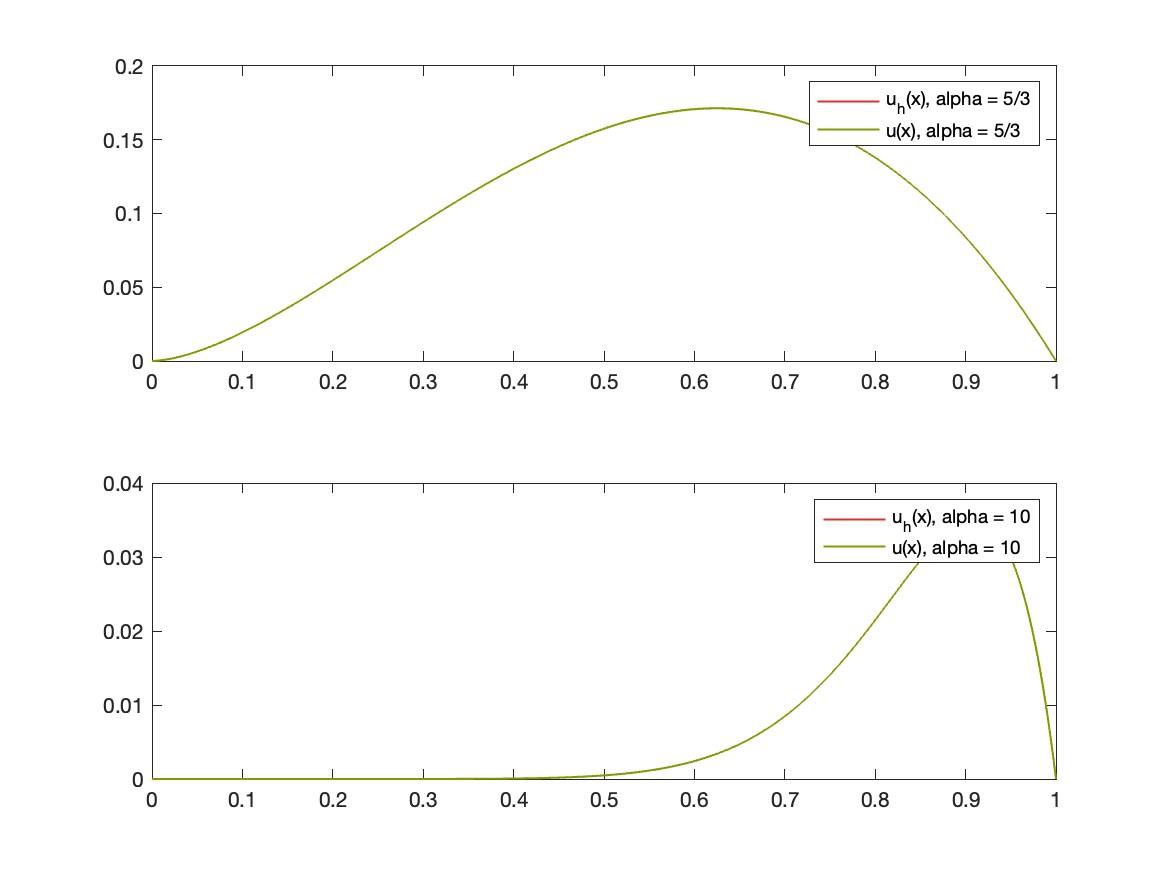
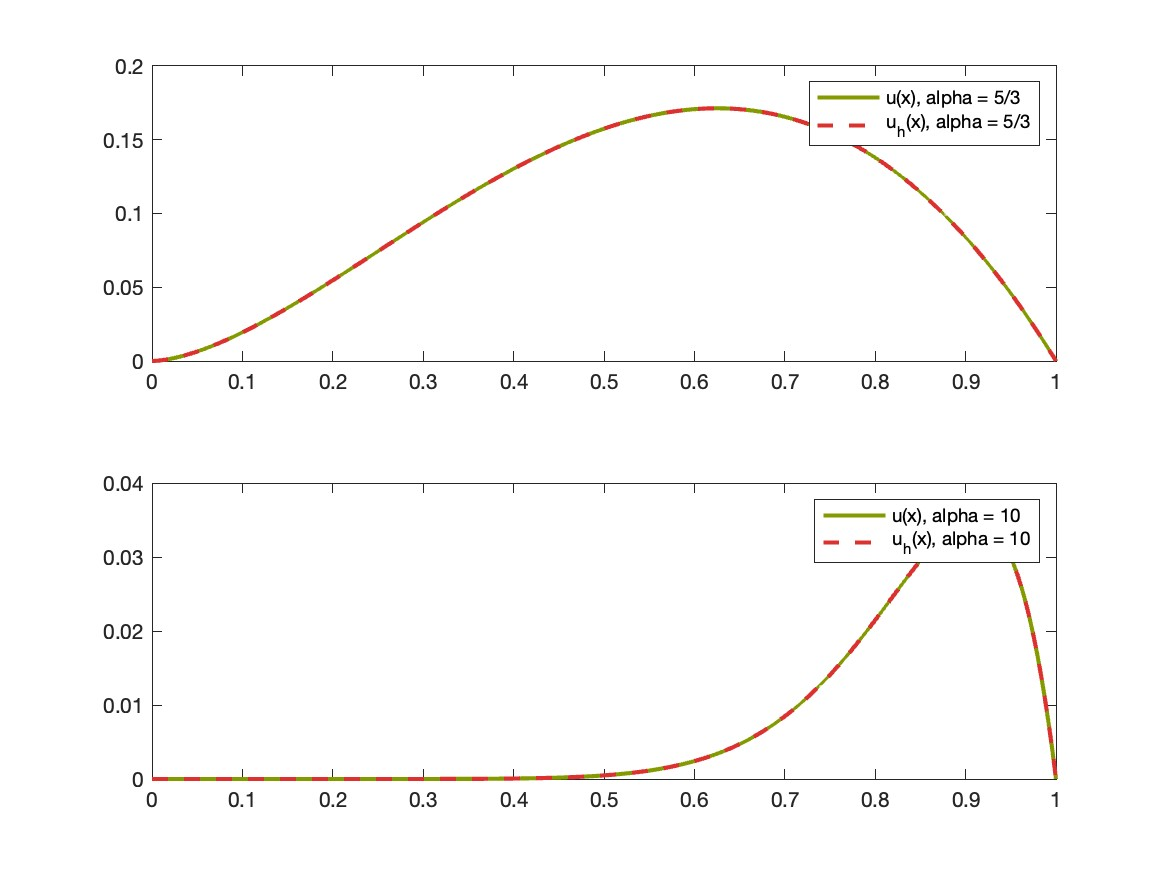
Updated errorTrend and graphical comparison

diff --git a/tests/errorTrend.m b/tests/errorTrend.m
@@ -14,7 +14,7 @@ function errorTrend
 	sizes = zeros(2, steps);
 	errors = zeros(2, steps);
 
-	%% Alpha = 5/3.
+	%% \alpha = 5/3.
 	up = @(x) up_a(5/3, x);
 	f = @(x) f_a(5/3, x);
 	
@@ -22,7 +22,7 @@ function errorTrend
 	uMesh = builder(5);
 	meshSizes = diff(uMesh.nodes);
 
-	fprintf('Errors evaluation, alpha = 5/3.\nSimple.\n')
+	fprintf('Errors evaluation, \alpha = 5/3.\nSimple.\n')
 
 	j = 1;
 	[uh, ~, ~] = solver(uMesh, f);
@@ -45,7 +45,7 @@ function errorTrend
 			length(uMesh.elements), errors(1, j));
 	end
 
-	%% Alpha = 10.
+	%% \alpha = 10.
 	up = @(x) up_a(10, x);
 	f = @(x) f_a(10, x);
 	
@@ -53,7 +53,7 @@ function errorTrend
 	uMesh = builder(5);
 	meshSizes = diff(uMesh.nodes);
 
-	fprintf('\n\nErrors evaluation, alpha = 10.\nSimple.\n')
+	fprintf('\n\nErrors evaluation, \alpha = 10.\nSimple.\n')
 	
 	j = 1;
 	[uh, ~, ~] = solver(uMesh, f);
@@ -80,26 +80,22 @@ function errorTrend
 	
 	green = [133, 153, 0] / 255;
 	red = [220, 50, 47] / 255;
+	blue = [38	139	210] / 255;
 
 	loglog(sizes(1, :), errors(1, :), ...
-		DisplayName='alpha = 5/3', LineWidth=2, ...
+		DisplayName='\alpha = 5/3', LineWidth=2, ...
 		Color=red);
 
 	hold on;
 
 	loglog(sizes(2, :), errors(2, :), ...
-		DisplayName='alpha = 10', LineWidth=2, ...
+		DisplayName='\alpha = 10', LineWidth=2, ...
 		Color=green);
 	
 	xlabel("Mesh Size (h)");
 	ylabel("Error")
 
-	hold off;
-	legend;
-
-	saveas(gcf, "../gallery/errorTrend", "jpeg")
-
-	%% Interpolation
+	% Interpolation
 
 	coeffs = zeros(2, 2);
 	coeffs(1, :) = polyfit(log(sizes(1, :)), ...
@@ -107,12 +103,24 @@ function errorTrend
 	coeffs(2, :) = polyfit(log(sizes(2, :)), ...
 		log(errors(2, :)), 1);
 	
+	loglog(sizes(1, :), exp(coeffs(1, 2)) * (sizes(1, :) .^ ...
+		coeffs(1, 1)), LineWidth=2, Color=blue, ...
+		LineStyle=":", DisplayName="\alpha = 5/3 Interpolant.");
+	loglog(sizes(2, :), exp(coeffs(2, 2)) * (sizes(2, :) .^ ...
+		coeffs(2, 1)), LineWidth=2, Color=blue, ...
+		LineStyle=":", DisplayName="\alpha = 10 Interpolant.");
+	
 	% Prints coefficients.
 	fprintf("\n\nInterpolation coefficients.")
-	fprintf("\n\nalpha = 5/3, y = %fx + (%f)", ...
+	fprintf("\n\nalpha = 5/3 Interpolant: y = %fx + (%f)", ...
 		coeffs(1, 1), coeffs(1, 2));
-	fprintf("\nalpha = 10, y = %fx + (%f)\n", ...
+	fprintf("\nalpha = 10 Interpolant: y = %fx + (%f)\n", ...
 		coeffs(2, 1), coeffs(2, 2));
+
+	hold off;
+	legend;
+
+	saveas(gcf, "../gallery/errorTrend", "jpeg")
 end
 
 function err = errorEstimate(mesh, up, uh)

diff --git a/report/sections/fem.tex b/report/sections/fem.tex
@@ -10,6 +10,7 @@ Let $x_j$ a node for $T_h$, we define $\phi_j$ as it follows:
 Moreover, the functions $\phi_j(x)$ are continuos and piecewise linear, which satisfies $\phi_j(x) \in V_h$ $\forall j \in \{1, \dots, N_{V_h}\}$.
 
 \subsection{Finite Element Discretization}
+
 As seen on \nameref{fem_definition}, the finite element discretization consists in finding $u_h \in V_h$ such that:
 \begin{gather}
 	a(u_h, v_h) = (f, v_h)_{0, \Omega} \quad \forall v_h \in V_h.
@@ -66,6 +67,18 @@ we have:
 
 \noindent Moreover a polynomial interpolation returns the following results which confirm the expected error trend on uniform meshes, as they are decreasing slightly slower than linearly.
 \begin{verbatim}
-alpha = 5/3, y = 0.988762x + (0.006448)
-alpha = 10, y = 0.964138x + (0.389059)
+Interpolation coefficients.
+
+alpha = 5/3 Interpolant: y = 0.988762x + (0.006448)
+alpha = 10 Interpolant: y = 0.964138x + (0.389059)
 \end{verbatim}
+
+\subsection{Qualitative Comparison Between Analytical and Numerical Solution}
+
+Here it follows a simple and qualitative comparison between the analytical and numerical solution.
+
+\begin{figure}[!ht]
+	\centering
+	\includegraphics[width=15cm]{graphical.jpg}
+	\caption{Qualitative comparison.}
+\end{figure}

diff --git a/tests/graphical.m b/tests/graphical.m
@@ -20,15 +20,15 @@ function graphical
     
     tiledlayout(2, 1);
     nexttile;
-
-    plot(uMesh.nodes, uh, ...
-		DisplayName='u_h(x), alpha = 5/3', LineWidth=1, ...
-		Color=red);
+	
+	plot(uMesh.nodes, u(uMesh.nodes), ...
+		DisplayName='u(x), alpha = 5/3', LineWidth=2, ...
+		Color=green);
     hold on;
 
-    plot(uMesh.nodes, u(uMesh.nodes), ...
-		DisplayName='u(x), alpha = 5/3', LineWidth=1, ...
-		Color=green);
+    plot(uMesh.nodes, uh, ...
+		DisplayName='u_h(x), alpha = 5/3', LineWidth=2, ...
+		Color=red,LineStyle='--');
 
     hold off;
     legend;
@@ -41,14 +41,14 @@ function graphical
     
     nexttile;
 
-    plot(uMesh.nodes, uh, ...
-		DisplayName='u_h(x), alpha = 10', LineWidth=1, ...
-		Color=red);
-    hold on;
-
     plot(uMesh.nodes, u(uMesh.nodes), ...
-		DisplayName='u(x), alpha = 10', LineWidth=1, ...
+		DisplayName='u(x), alpha = 10', LineWidth=2, ...
 		Color=green);
+    hold on;
+	
+	plot(uMesh.nodes, uh, ...
+		DisplayName='u_h(x), alpha = 10', LineWidth=2, ...
+		Color=red,LineStyle='--');
 
     hold off;
     legend;

diff --git a/README.md b/README.md
@@ -16,4 +16,5 @@ Implementazione di un metodo "Adaptive 1D 1st-order Lagrange FEM" per la soluzio
 - `/tests/*` Codici sorgente di test per la relazione.
 	- `/tests/errorTrend.m` Studio della convergenza del metodo su mesh uniformi.
 	- `/tests/comparison.m` Confronto tra il metodo adattivo e il metodo di raffinamento classico.
+	- `/tests/graphical.m` Confronto qualitativo tra la soluzione analitica e numerica.
 - `report/report.tex` Relazione.
